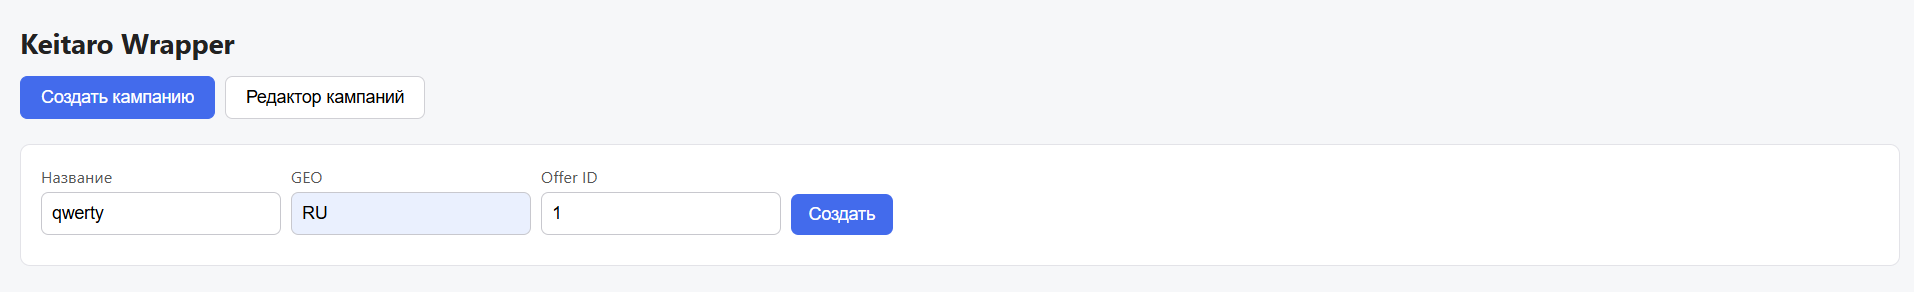
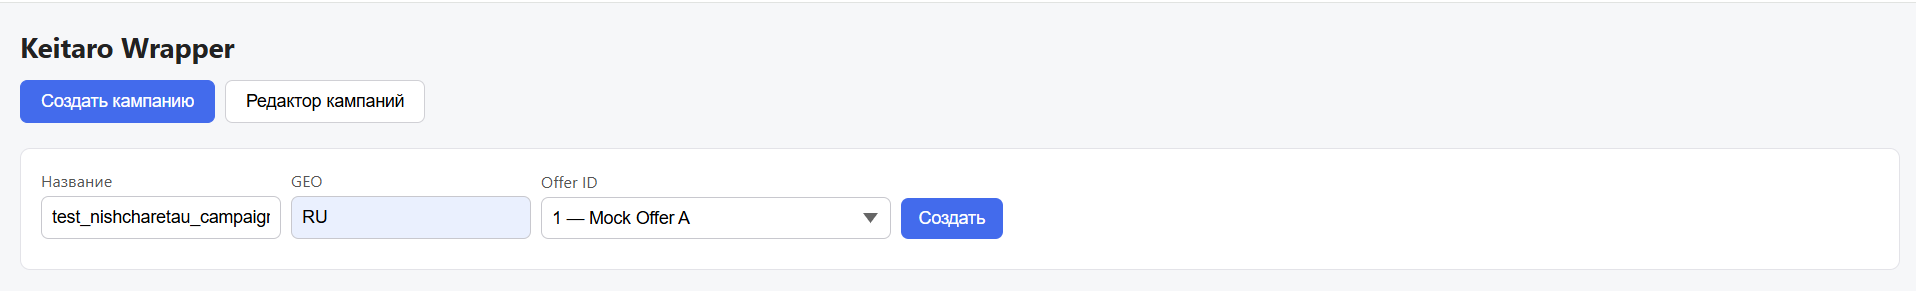
Add offers dropdown, fix offer-add bug, clarify README

diff --git a/app/static/index.html b/app/static/index.html
@@ -111,7 +111,7 @@
       </div>
       <div class="field">
         <label for="create-offer-id">Offer ID</label>
-        <input type="number" id="create-offer-id" placeholder="1" required>
+        <select id="create-offer-id" required></select>
       </div>
       <button type="submit">Создать</button>
     </form>
@@ -124,8 +124,8 @@
       <select id="campaign-select"></select>
     </div>
     <div class="field">
-      <label for="offer-id-input">Offer ID</label>
-      <input type="number" id="offer-id-input" placeholder="1">
+      <label for="offer-id-select">Offer ID</label>
+      <select id="offer-id-select"></select>
     </div>
     <button id="add-offer-btn">Добавить оффер</button>
     <div id="offer-error" class="result"></div>
@@ -152,7 +152,10 @@
   }
 
   tabs.forEach((t) => {
-    t.addEventListener('click', () => activateTab(t.dataset.tab));
+    t.addEventListener('click', () => {
+      activateTab(t.dataset.tab);
+      loadOffersCatalog();
+    });
   });
 
   const createForm = document.getElementById('create-form');
@@ -193,7 +196,7 @@
   const offersList = document.getElementById('offers-list');
   const offerError = document.getElementById('offer-error');
   const addOfferBtn = document.getElementById('add-offer-btn');
-  const offerIdInput = document.getElementById('offer-id-input');
+  const offerIdSelect = document.getElementById('offer-id-select');
 
   async function apiFetch(url, options) {
     const res = await fetch(url, options);
@@ -219,7 +222,7 @@
         const item = document.createElement('div');
         item.className = 'offer-item';
         const text = document.createElement('span');
-        text.textContent = `offer_id = ${s.offer_id} (stream_id ${s.id})`;
+        text.textContent = `offer_id = ${s.offer_id} (weight 100, stream_id ${s.id})`;
         const btn = document.createElement('button');
         btn.textContent = 'Удалить';
         btn.addEventListener('click', async () => {
@@ -249,7 +252,7 @@
 
   addOfferBtn.addEventListener('click', async () => {
     const campaignId = Number(campaignSelect.value);
-    const offerId = Number(offerIdInput.value);
+    const offerId = Number(offerIdSelect.value);
     if (!campaignId) { offerError.textContent = 'Выберите кампанию из списка'; return; }
     if (!offerId) { offerError.textContent = 'Введите Offer ID'; return; }
     try {
@@ -258,12 +261,38 @@
         headers: { 'Content-Type': 'application/json' },
         body: JSON.stringify({ offer_id: offerId }),
       });
-      offerIdInput.value = '';
+      offerIdSelect.value = '';
       await loadOffers(campaignId);
     } catch (err) {
       offerError.textContent = `Ошибка: ${err.message}`;
     }
   });
+
+  async function loadOffersCatalog() {
+    try {
+      const offers = await apiFetch('/campaigns/offers');
+      const createSelect = document.getElementById('create-offer-id');
+      const editorSelect = document.getElementById('offer-id-select');
+      const fillSelect = (select, items) => {
+        select.innerHTML = '';
+        if (!items || !items.length) {
+          const opt = document.createElement('option');
+          opt.value = '';
+          opt.textContent = '— офферов нет —';
+          select.appendChild(opt);
+          return;
+        }
+        items.forEach((o) => {
+          const opt = document.createElement('option');
+          opt.value = String(o.id);
+          opt.textContent = `${o.id} — ${o.name}`;
+          select.appendChild(opt);
+        });
+      };
+      fillSelect(createSelect, offers);
+      fillSelect(editorSelect, offers);
+    } catch (err) { /* noop */ }
+  }
 
   async function loadCampaigns() {
   const select = document.getElementById('campaign-select');
@@ -298,7 +327,10 @@
   }
 }
 
-  document.addEventListener('DOMContentLoaded', loadCampaigns);
+  document.addEventListener('DOMContentLoaded', () => {
+    loadCampaigns();
+    loadOffersCatalog();
+  });
 </script>
 </body>
 </html>

diff --git a/app/keitaro.py b/app/keitaro.py
@@ -167,6 +167,22 @@ class KeitaroClient:
             return None
         await self._request("DELETE", f"/campaigns/{campaign_id}")
 
+    async def list_offers(self) -> list:
+        """List offers."""
+        if KeitaroSettings().use_keitaro_mock:
+            print("[MOCK] list_offers called")
+            return [
+                {"id": 1, "name": "Mock Offer A"},
+                {"id": 2, "name": "Mock Offer B"},
+                {"id": 3, "name": "Mock Offer C"},
+            ]
+        data = await self._request("GET", "/offers")
+        if isinstance(data, list):
+            return data
+        if isinstance(data, dict):
+            return data.get("offers") or []
+        return []
+
 
 _keitaro_client: KeitaroClient | None = None
 

diff --git a/app/routers/campaigns.py b/app/routers/campaigns.py
@@ -160,6 +160,12 @@ async def list_campaigns(db: AsyncSession = Depends(get_db)) -> list[CampaignRea
     return [CampaignRead.model_validate(c, from_attributes=True) for c in campaigns]
 
 
+@router.get("/offers")
+async def list_offers(keitaro: KeitaroClient = Depends(get_keitaro_client)) -> list[dict]:
+    """List offers."""
+    return await keitaro.list_offers()
+
+
 @router.get("/{campaign_id}", response_model=CampaignRead)
 async def get_campaign(campaign_id: int, db: AsyncSession = Depends(get_db)) -> CampaignRead:
     campaign = await _get_campaign_or_404(db, campaign_id)

diff --git a/README.md b/README.md
@@ -25,7 +25,7 @@
 |---|---|---|
 | `KEITARO_URL` | Базовый URL Keitaro | `https://your-keitaro.example.com` |
 | `KEITARO_API_KEY` | Admin API ключ (Обслуживание → Пользователи → Ключи для Admin API) | `abc123...` |
-| `KEITARO_DEFAULT_DOMAIN_ID` | ID домена по умолчанию для новых кампаний | `1` |
+| `KEITARO_DEFAULT_DOMAIN_ID` | (опционально) ID домена; в текущей версии захардкожен | `1` |
 | `KEITARO_DEFAULT_GROUP_ID` | ID группы кампаний | `1` |
 | `KEITARO_DEFAULT_TRAFFIC_SOURCE_ID` | ID источника трафика | `1` |
 | `USE_KEITARO_MOCK` | `true` — mock-режим без запросов в Keitaro | `false` |
@@ -66,29 +66,46 @@ USE_KEITARO_MOCK=true  (остальные KEITARO_* можно оставить
 потоки в локальную SQLite — поэтому сценарии "создать → добавить
 оффер → удалить" работают полностью. Переключение режимов — одна
 переменная в .env, код не меняется.
+⚠ В mock-режиме `GET /campaigns/offers` возвращает 3 заглушки
+(Mock Offer A/B/C) для проверки UI. В реальном режиме тот же эндпоинт
+вызывает `GET /admin_api/v1/offers` в Keitaro.
 
 ## Как пользоваться
 Приложение — одностраничное, две вкладки:
 
 ### Вкладка «Создать кампанию»
-Введите название кампании, GEO-код страны (2 буквы, например RU) и ID оффера из Keitaro.
+Введите название кампании, GEO-код страны (2 буквы, например RU) и выберите оффер из выпадающего списка (загружается из Keitaro через
+`GET /campaigns/offers`).
 
 Нажмите «Создать».
 
 Приложение создаст в Keitaro кампанию с двумя потоками:
+   - **Поток 1 (forced, redirect):** настроен ловить трафик из указанной
+     страны (фильтр `geo=accept`) и редиректить на `https://www.google.com`
+     (`action_type=redirect`, `action_options.url=...`).
+   - **Поток 2 (regular, offers):** настроен редиректить на указанный
+     оффер (`action_type=offers`, `offers=[{offer_id, ...}]`).
 
-Поток 1 (forced, redirect): ловит трафик из указанной страны и редиректит на https://www.google.com.
+**Как проверить (при доступном Keitaro):**
+- В админке Keitaro → кампания → «Потоки» → откройте первый поток →
+  убедитесь, что действие «Redirect» и URL `https://www.google.com`.
+- Или через API: `GET /campaigns/{id}/streams`, в ответе у первого потока
+  должно быть `action_type: "redirect"` и `action_options: {"url": "https://www.google.com"}`.
+- End-to-end (реальный клик с IP нужной страны через VPN) — редирект на Google.
 
-Поток 2 (regular, offers): редиректит на указанный оффер.
-
-После успеха приложение автоматически переключится на вкладку «Редактор» и выберет созданную кампанию.
+⚠ На момент сдачи end-to-end проверка редиректа невозможна из-за 403
+(см. «Статус интеграции»). Конфигурация потока проверена через код и
+соответствие Swagger-спеке; mock-режим печатает payload в лог.
 
 ### Вкладка «Редактор кампаний»
 Выберите кампанию из выпадающего списка (загружается из локальной БД).
 
 Увидите список офферов (потоки с kind="offer").
 
-Чтобы добавить оффер: введите ID оффера и нажмите «Добавить оффер».
+Чтобы добавить оффер: выберите оффер из выпадающего списка
+(загружается из Keitaro через `GET /campaigns/offers`) и нажмите
+«Добавить оффер». В списке офферов рядом с каждым отображается
+`offer_id`, `weight` и `stream_id`.
 
 Чтобы удалить: нажмите «Удалить» рядом с оффером.
 
@@ -101,6 +118,8 @@ USE_KEITARO_MOCK=true  (остальные KEITARO_* можно оставить
 
 - GET /campaigns/{id} — одна кампания с потоками
 
+- GET /campaigns/offers — каталог офферов из Keitaro (для dropdown в UI)
+
 - POST /campaigns/{id}/offers — добавить оффер (создаёт новый поток в Keitaro)
 
 - DELETE /campaigns/{id}/offers/{stream_id} — удалить оффер (удаляет поток в Keitaro)
@@ -112,6 +131,28 @@ USE_KEITARO_MOCK=true  (остальные KEITARO_* можно оставить
 а не к кампании напрямую. Поэтому «добавить оффер в кампанию» реализовано как создание
 нового потока с этим оффером, а «удалить оффер» — как удаление соответствующего потока.
 Это упрощает редактор: каждый оффер управляется независимо, без конфликтов в общем потоке.
+
+## Веса офферов
+
+В Keitaro трафик между потоками распределяется по полю `weight`. В нашей
+модели каждый оффер = отдельный поток с `weight=100`, поэтому при N
+офферах Keitaro распределит ~1/N трафика на каждый (например, 4 оффера
+→ ~25% на каждый). UI показывает `weight` в списке офферов.
+
+Редактирование веса через слайдеры (как в видео-референсе) не реализовано:
+это потребовало бы эндпоинта `update_stream` и пересчёта долей. При необходимости добавляется
+через `POST /streams` (в Keitaro обновление потока — тем же POST).
+
+## Почему нет кнопки «PUSH TO KT»
+
+В видео-референсе редактор работает с локальным черновиком и отправляет
+изменения в Keitaro по кнопке. У нас другая модель: изменения применяются
+сразу. «Добавить оффер» → `POST /streams` в Keitaro; «Удалить» →
+`DELETE /streams`. Это исключает рассинхронизацию черновика и реального
+состояния Keitaro.
+
+Если бы понадобился черновик — добавили бы draft-таблицу и эндпоинт
+`POST /campaigns/{id}/push`.
 
 ## Ограничения
 - CORS: allow_origins=["*"] — для тестового задания. В проде нужно ограничить конкретными доменами.
